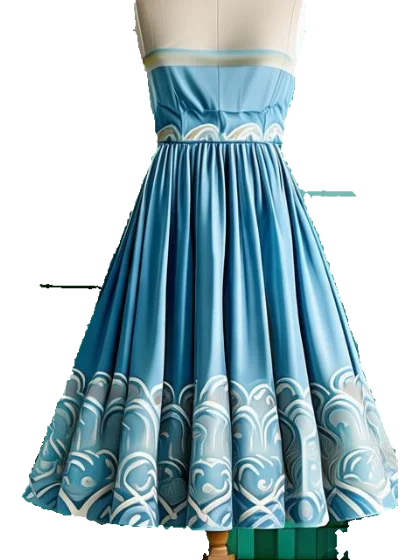
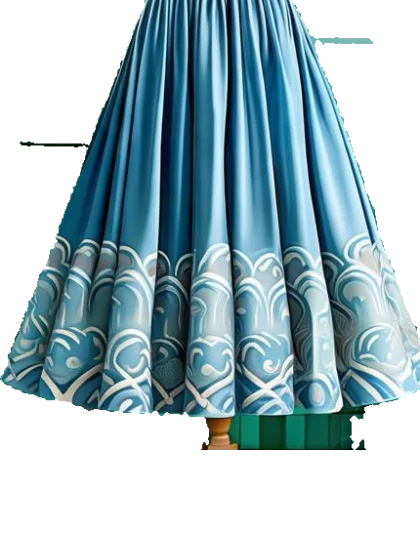
fix: 夺宝资产区恢复两列布局 + 换装定位校准
- 幸运值进度条回归资产卡(80%发光保留), 点击查看保底进度
- 积分恢复紧凑尺寸, 资产区两两并排(积分/幸运值 + 水晶/碎片)
- 修复十连抽按钮被挤半宽的问题(外层容器 flex 布局)
- 去掉十连抽确认弹窗
- 换装素材归一化改为顶部对齐, 裙片裁掉生成时附带的胸衣部分
- 上下装 fit 逐件校准: 脸部完整露出, 衣领在颈位, 裙腰在自然腰线

diff --git a/standalone/law.html b/standalone/law.html
@@ -821,27 +821,25 @@ body.dark .exam-rec.bad .er-score{background:rgba(231,76,60,.2);color:#ee9a86}
 body.dark #lotteryView::before{background:radial-gradient(circle at 50% 0%,rgba(247,183,51,.13),transparent 55%)}
 #lotteryView.show{display:flex!important}
 .lottery-body{position:relative;z-index:1;flex:1;overflow-y:auto;padding:14px 14px calc(20px + env(safe-area-inset-bottom));-webkit-overflow-scrolling:touch;max-width:600px;margin:0 auto;width:100%}
-.lottery-stats{display:grid;grid-template-columns:1.15fr 1fr;gap:8px;margin-bottom:14px}
+.lottery-stats{display:grid;grid-template-columns:1fr 1fr;gap:8px;margin-bottom:14px}
 .lottery-stat{position:relative;background:var(--card-bg);border:1px solid var(--card-border);border-radius:14px;padding:10px 12px;min-width:0}
 .lottery-stat .ls-val{font-size:16px;font-weight:800;color:var(--text);font-variant-numeric:tabular-nums;white-space:nowrap;line-height:1.1}
 .lottery-stat .ls-label{font-size:10px;color:var(--text2);margin-top:1px}
 .lottery-stat .ls-ic{font-size:20px;line-height:1}
 .lottery-stat .ls-main{display:flex;flex-direction:column;justify-content:center;min-width:0}
-.lottery-stat.hero{display:flex;align-items:center;gap:10px;padding:14px 14px;background:linear-gradient(135deg,rgba(247,183,51,.18),rgba(252,74,26,.06));border-color:rgba(247,183,51,.45);box-shadow:0 4px 14px rgba(247,183,51,.18)}
-.lottery-stat.hero .ls-coin{width:52px;height:52px;border-radius:50%;background:radial-gradient(circle at 32% 28%,rgba(255,255,255,.55),rgba(255,224,138,.25) 55%,transparent 75%);display:flex;align-items:center;justify-content:center;flex-shrink:0;filter:drop-shadow(0 3px 6px rgba(232,160,32,.45))}
-.lottery-stat.hero .ls-val{font-size:27px;color:#c8870e;letter-spacing:.5px}
+.lottery-stat.hero{display:flex;align-items:center;gap:8px;background:linear-gradient(135deg,rgba(247,183,51,.16),rgba(252,74,26,.05));border-color:rgba(247,183,51,.45)}
+.lottery-stat.hero .ls-coin{width:34px;height:34px;border-radius:50%;display:flex;align-items:center;justify-content:center;flex-shrink:0;filter:drop-shadow(0 2px 4px rgba(232,160,32,.4))}
+.lottery-stat.hero .ls-val{font-size:19px;color:#c8870e}
 body.dark .lottery-stat.hero .ls-val{color:#f7b733}
-.lottery-stat.hero .ls-label{font-size:11px;font-weight:700;color:#b47b0e}
+.lottery-stat.hero .ls-label{font-size:10px;font-weight:700;color:#b47b0e}
 body.dark .lottery-stat.hero .ls-label{color:#f7b733}
-.lot-side{display:flex;flex-direction:column;gap:8px;min-width:0}
-.lot-stat.mini{flex:1;display:flex;align-items:center;gap:8px;padding:7px 10px}
-.lot-stat.mini .ls-ic{flex-shrink:0;display:flex}
-.lot-stat.mini .ls-val{font-size:14px}
-.lot-stat.mini .ls-label{font-size:9.5px;margin-top:0}
-.lot-stat.mini .ls-main{flex:1}
-.lot-stat.mini.luck{cursor:pointer}
-.lot-stat.mini.luck:active{background:var(--input-bg)}
-.lottery-luck-bar{height:7px;background:var(--card-border);border-radius:4px;margin-top:5px;overflow:hidden}
+.lottery-stat.luck{display:flex;flex-direction:column;justify-content:center}
+.lottery-stat.luck .ls-top{display:flex;align-items:baseline;justify-content:space-between;gap:6px}
+.lottery-stat.luck .ls-label{margin-top:0}
+.lottery-stat.sub{display:flex;align-items:center;gap:8px}
+.lottery-stat.sub .ls-ic{display:flex;flex-shrink:0}
+.lottery-stat.sub .ls-val{font-size:15px}
+.lottery-luck-bar{height:8px;background:var(--card-border);border-radius:4px;margin-top:6px;overflow:hidden;cursor:pointer}
 .lottery-luck-fill{height:100%;width:0%;background:linear-gradient(90deg,#f7b733,#fc4a1a);border-radius:4px;transition:width .4s}
 .lottery-luck-fill.near{background:linear-gradient(90deg,#f7b733,#ff4d4f);box-shadow:0 0 10px rgba(247,183,51,.75);animation:luckPulse 1.1s ease-in-out infinite}
 .lottery-luck-fill.full{background:linear-gradient(90deg,#f7b733,#ff4d4f);box-shadow:0 0 12px rgba(255,77,79,.8)}
@@ -895,7 +893,8 @@ body.dark .lc-tag.t-purple{background:rgba(167,139,250,.16);color:#c3b1fc}
 @keyframes cellFlicker{from{opacity:.5}to{opacity:1}}
 @keyframes crystalPulse{0%,100%{transform:scale(1)}50%{transform:scale(1.12)}}
 .lottery-draw-row{display:flex;gap:10px;margin-bottom:14px}
-.l-draw-wrap{flex:1;position:relative;min-width:0}
+.l-draw-wrap{flex:1;position:relative;min-width:0;display:flex}
+.l-draw-wrap .l-draw-btn{width:100%}
 .l-draw-btn{flex:1;position:relative;border:none;border-radius:16px;padding:13px 8px;font-size:15px;font-weight:800;cursor:pointer;font-family:inherit;color:#fff;transition:all .15s;display:flex;flex-direction:column;align-items:center;gap:2px;overflow:hidden}
 .l-draw-btn .ld-cost{font-size:10px;font-weight:600;opacity:.9}
 .l-draw-btn.primary{background:linear-gradient(135deg,#f7b733,#fc4a1a);box-shadow:0 6px 20px rgba(247,183,51,.45),0 2px 6px rgba(0,0,0,.15);animation:btnBreath 2s ease-in-out infinite}
@@ -2155,32 +2154,31 @@ body.dark .af-opt{background:#2a2a2a}
     <span class="title">积分夺宝</span>
   </div>
   <div class="lottery-body">
+    <svg width="0" height="0" style="position:absolute"><defs><linearGradient id="coinG" x1="0" y1="0" x2="1" y2="1"><stop offset="0" stop-color="#ffe08a"/><stop offset="1" stop-color="#e8a020"/></linearGradient></defs></svg>
     <div class="lottery-stats">
       <div class="lottery-stat hero">
         <div class="ls-coin">
-          <svg width="36" height="36" viewBox="0 0 24 24"><defs><linearGradient id="coinG" x1="0" y1="0" x2="1" y2="1"><stop offset="0" stop-color="#ffe08a"/><stop offset="1" stop-color="#e8a020"/></linearGradient></defs><circle cx="12" cy="12" r="10" fill="url(#coinG)" stroke="#b47b0e" stroke-width="1.2"/><circle cx="12" cy="12" r="7" fill="none" stroke="#fff3c9" stroke-width="1" opacity=".75"/><path d="M12 6.8v10.4M14.9 9.1c-.6-.9-1.7-1.4-2.9-1.4-1.7 0-3 .9-3 2.1 0 2.7 6 1.4 6 4.1 0 1.2-1.3 2.1-3 2.1-1.2 0-2.3-.5-2.9-1.4" stroke="#7c520a" stroke-width="1.5" fill="none" stroke-linecap="round"/></svg>
+          <svg width="26" height="26" viewBox="0 0 24 24"><circle cx="12" cy="12" r="10" fill="url(#coinG)" stroke="#b47b0e" stroke-width="1.2"/><circle cx="12" cy="12" r="7" fill="none" stroke="#fff3c9" stroke-width="1" opacity=".75"/><path d="M12 6.8v10.4M14.9 9.1c-.6-.9-1.7-1.4-2.9-1.4-1.7 0-3 .9-3 2.1 0 2.7 6 1.4 6 4.1 0 1.2-1.3 2.1-3 2.1-1.2 0-2.3-.5-2.9-1.4" stroke="#7c520a" stroke-width="1.5" fill="none" stroke-linecap="round"/></svg>
         </div>
         <div class="ls-main">
           <div class="ls-val" id="lotPoints">0</div>
           <div class="ls-label">积分</div>
         </div>
       </div>
-      <div class="lot-side">
-        <div class="lot-stat mini luck" onclick="showLuckDetail()" title="查看保底进度">
-          <div class="ls-top">
-            <div class="ls-val" id="lotLuck">0/365</div>
-            <div class="ls-label">幸运值</div>
-          </div>
-          <div class="lottery-luck-bar"><div class="lottery-luck-fill" id="lotLuckFill"></div></div>
+      <div class="lottery-stat luck">
+        <div class="ls-top">
+          <div class="ls-val" id="lotLuck">0/365</div>
+          <div class="ls-label">幸运值</div>
         </div>
-        <div class="lot-stat mini">
-          <div class="ls-ic"><svg width="15" height="15" viewBox="0 0 24 24" fill="none" stroke="#7aa8ff" stroke-width="2" stroke-linecap="round" stroke-linejoin="round"><path d="M6 3h12l4 6-10 12L2 9z"/><path d="M2 9h20"/><path d="M12 21L8 9l4-6 4 6z"/></svg></div>
-          <div class="ls-main"><div class="ls-val" id="lotCrystals">0</div><div class="ls-label">法魂水晶</div></div>
-        </div>
-        <div class="lot-stat mini">
-          <div class="ls-ic"><svg width="15" height="15" viewBox="0 0 24 24" fill="none" stroke="#14b8a6" stroke-width="2" stroke-linecap="round" stroke-linejoin="round"><path d="M3 19c4-2 6-2 9-4s4-5 4-5"/><path d="M20 3l-9 9"/><path d="M20 3l1 5-4 1"/><circle cx="6" cy="17" r="3"/></svg></div>
-          <div class="ls-main"><div class="ls-val" id="lotSkinFrags">0</div><div class="ls-label">皮肤碎片</div></div>
-        </div>
+        <div class="lottery-luck-bar" onclick="showLuckDetail()" title="查看保底进度"><div class="lottery-luck-fill" id="lotLuckFill"></div></div>
+      </div>
+      <div class="lottery-stat sub">
+        <div class="ls-ic"><svg width="17" height="17" viewBox="0 0 24 24" fill="none" stroke="#7aa8ff" stroke-width="2" stroke-linecap="round" stroke-linejoin="round"><path d="M6 3h12l4 6-10 12L2 9z"/><path d="M2 9h20"/><path d="M12 21L8 9l4-6 4 6z"/></svg></div>
+        <div class="ls-main"><div class="ls-val" id="lotCrystals">0</div><div class="ls-label">法魂水晶</div></div>
+      </div>
+      <div class="lottery-stat sub">
+        <div class="ls-ic"><svg width="17" height="17" viewBox="0 0 24 24" fill="none" stroke="#14b8a6" stroke-width="2" stroke-linecap="round" stroke-linejoin="round"><path d="M3 19c4-2 6-2 9-4s4-5 4-5"/><path d="M20 3l-9 9"/><path d="M20 3l1 5-4 1"/><circle cx="6" cy="17" r="3"/></svg></div>
+        <div class="ls-main"><div class="ls-val" id="lotSkinFrags">0</div><div class="ls-label">皮肤碎片</div></div>
       </div>
     </div>
 
@@ -4728,7 +4726,6 @@ function lotteryDraw(n) {
   var cost = n === 10 ? 280 : 30;
   var p0 = loadProfile();
   if ((p0.points || 0) < cost) { showToast("积分不足，无法抽奖"); renderLottery(); return; }
-  if (n === 10 && !confirm("今日特惠 · 十连抽 280 积分（比单抽省 20）\n确定来一发十连吗？")) return;
   _lotteryBusy = true;
   addPoints(-cost, "积分夺宝" + (n === 10 ? "十连抽" : "单抽"));
   var results = [], i;
@@ -4934,20 +4931,20 @@ function characterSVG(skinKey, w, h) {
 // ===== 自由搭配部件库（AI 生图素材: images/dress/*.webp, fit 为叠加定位百分比） =====
 var DRESS_BASE = "images/dress/base.webp";
 var TOPS = [
-  { key: "shirt",   name: "律政白衬衫", cost: 0,   rarity: "初始", c1: "#f8fafc", c2: "#cbd5e1", free: true, img: "images/dress/top-shirt.webp", fit: { w: 74, y: 22 } },
-  { key: "sea-t",   name: "沧海短衫",   cost: 38,  rarity: "普通", c1: "#38bdf8", c2: "#0284c7", img: "images/dress/top-sea.webp", fit: { w: 76, y: 25 } },
-  { key: "ink-t",   name: "墨海书衣",   cost: 38,  rarity: "普通", c1: "#94a3b8", c2: "#334155", img: "images/dress/top-ink.webp", fit: { w: 80, y: 22 } },
-  { key: "star-t",  name: "星河衫",     cost: 120, rarity: "勇者", c1: "#a78bfa", c2: "#6d28d9", img: "images/dress/top-star.webp", fit: { w: 74, y: 24 } },
-  { key: "gold-t",  name: "鎏金华服",   cost: 240, rarity: "史诗", c1: "#f7b733", c2: "#b45309", img: "images/dress/top-gold.webp", fit: { w: 78, y: 24 } },
-  { key: "crown-t", name: "执灯红衣",   cost: 400, rarity: "传说", c1: "#fb7185", c2: "#be185d", img: "images/dress/top-crown.webp", fit: { w: 80, y: 22 } }
+  { key: "shirt",   name: "律政白衬衫", cost: 0,   rarity: "初始", c1: "#f8fafc", c2: "#cbd5e1", free: true, img: "images/dress/top-shirt.webp", fit: { w: 58, y: 20 } },
+  { key: "sea-t",   name: "沧海短衫",   cost: 38,  rarity: "普通", c1: "#38bdf8", c2: "#0284c7", img: "images/dress/top-sea.webp", fit: { w: 62, y: 21 } },
+  { key: "ink-t",   name: "墨海书衣",   cost: 38,  rarity: "普通", c1: "#94a3b8", c2: "#334155", img: "images/dress/top-ink.webp", fit: { w: 66, y: 19 } },
+  { key: "star-t",  name: "星河衫",     cost: 120, rarity: "勇者", c1: "#a78bfa", c2: "#6d28d9", img: "images/dress/top-star.webp", fit: { w: 60, y: 20 } },
+  { key: "gold-t",  name: "鎏金华服",   cost: 240, rarity: "史诗", c1: "#f7b733", c2: "#b45309", img: "images/dress/top-gold.webp", fit: { w: 64, y: 19 } },
+  { key: "crown-t", name: "执灯红衣",   cost: 400, rarity: "传说", c1: "#fb7185", c2: "#be185d", img: "images/dress/top-crown.webp", fit: { w: 62, y: 20 } }
 ];
 var BOTTOMS = [
-  { key: "skirt",   name: "藏青百褶裙", cost: 0,   rarity: "初始", c1: "#334155", c2: "#1e293b", type: "skirt", free: true, img: "images/dress/bottom-skirt.webp", fit: { w: 70, y: 42 } },
-  { key: "sea-b",   name: "沧海袍摆",   cost: 38,  rarity: "普通", c1: "#38bdf8", c2: "#0284c7", type: "longskirt", img: "images/dress/bottom-sea.webp", fit: { w: 68, y: 30 } },
-  { key: "ink-b",   name: "墨色长裤",   cost: 38,  rarity: "普通", c1: "#475569", c2: "#1e293b", type: "pants", img: "images/dress/bottom-ink.webp", fit: { w: 56, y: 22 } },
-  { key: "star-b",  name: "星河长裙",   cost: 120, rarity: "勇者", c1: "#a78bfa", c2: "#6d28d9", type: "longskirt", img: "images/dress/bottom-star.webp", fit: { w: 76, y: 22 } },
-  { key: "gold-b",  name: "鎏金舞裙",   cost: 240, rarity: "史诗", c1: "#f7b733", c2: "#b45309", type: "longskirt", img: "images/dress/bottom-gold.webp", fit: { w: 72, y: 26 } },
-  { key: "crown-b", name: "执灯长裙",   cost: 400, rarity: "传说", c1: "#fb7185", c2: "#be185d", type: "longskirt", img: "images/dress/bottom-crown.webp", fit: { w: 62, y: 26 } }
+  { key: "skirt",   name: "藏青百褶裙", cost: 0,   rarity: "初始", c1: "#334155", c2: "#1e293b", type: "skirt", free: true, img: "images/dress/bottom-skirt.webp", fit: { w: 58, y: 46 } },
+  { key: "sea-b",   name: "沧海袍摆",   cost: 38,  rarity: "普通", c1: "#38bdf8", c2: "#0284c7", type: "longskirt", img: "images/dress/bottom-sea.webp", fit: { w: 64, y: 46 } },
+  { key: "ink-b",   name: "墨色长裤",   cost: 38,  rarity: "普通", c1: "#475569", c2: "#1e293b", type: "pants", img: "images/dress/bottom-ink.webp", fit: { w: 38, y: 46 } },
+  { key: "star-b",  name: "星河长裙",   cost: 120, rarity: "勇者", c1: "#a78bfa", c2: "#6d28d9", type: "longskirt", img: "images/dress/bottom-star.webp", fit: { w: 62, y: 46 } },
+  { key: "gold-b",  name: "鎏金舞裙",   cost: 240, rarity: "史诗", c1: "#f7b733", c2: "#b45309", type: "longskirt", img: "images/dress/bottom-gold.webp", fit: { w: 66, y: 45 } },
+  { key: "crown-b", name: "执灯长裙",   cost: 400, rarity: "传说", c1: "#fb7185", c2: "#be185d", type: "longskirt", img: "images/dress/bottom-crown.webp", fit: { w: 58, y: 46 } }
 ];
 // 三层叠加换装视觉: 基底 → 下装 → 上衣
 function outfitVisualHTML(top, bottom, wPx) {
